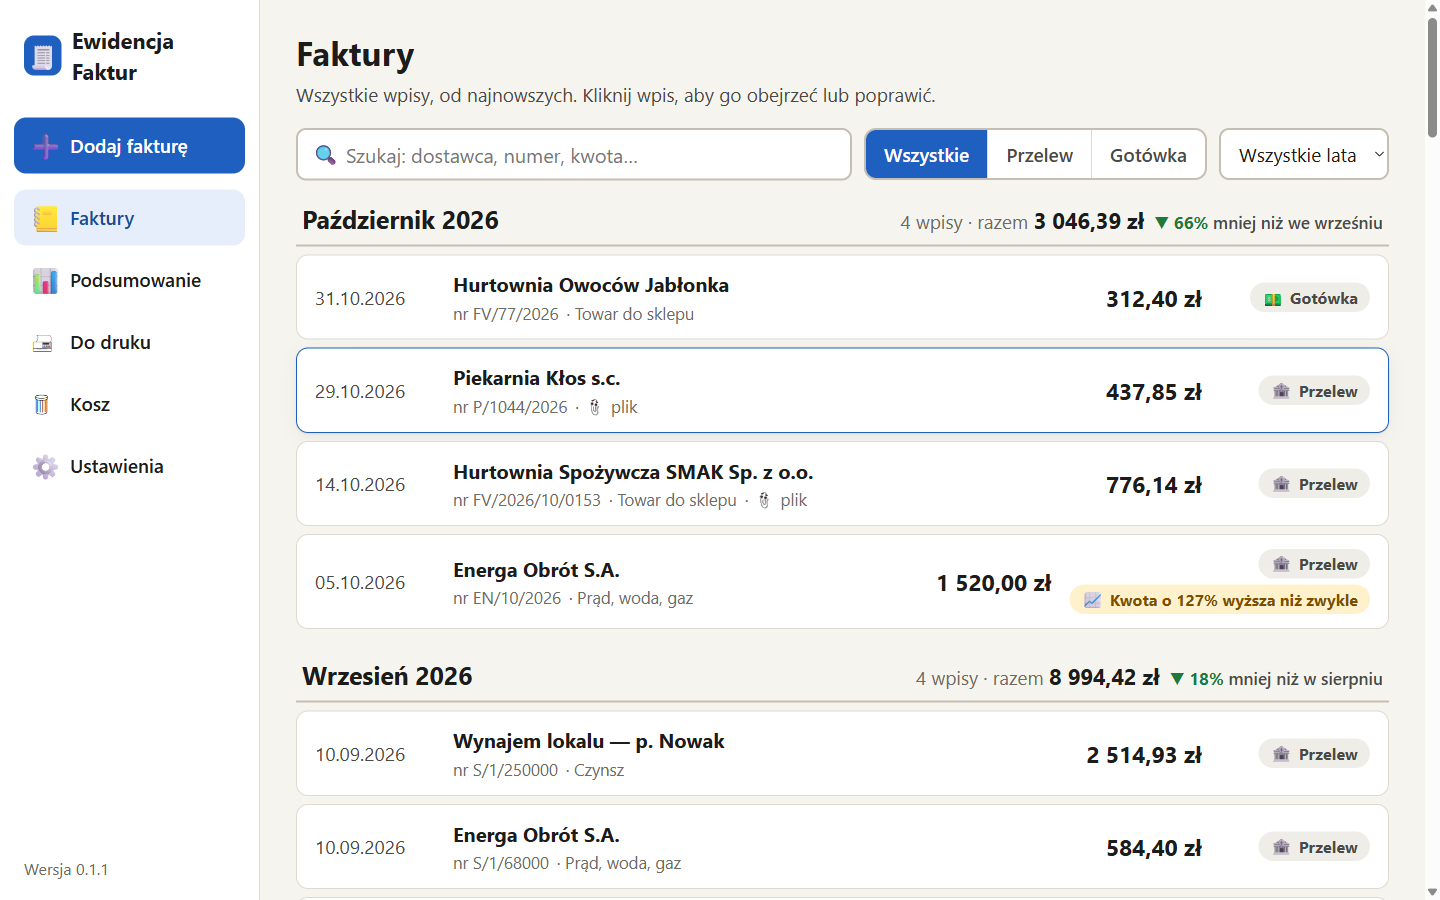
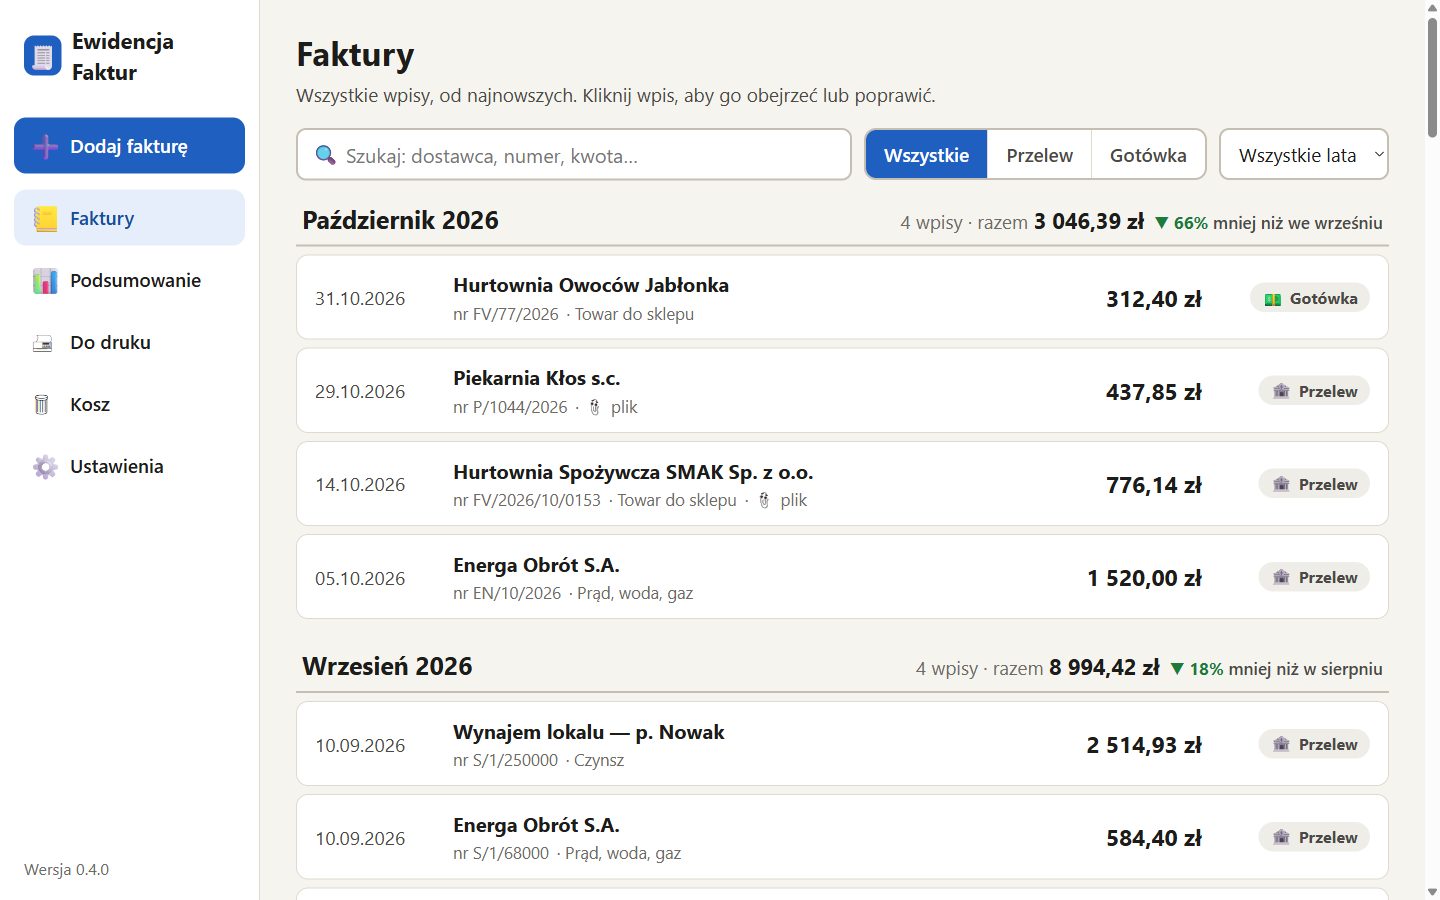
Release 0.4.1: remove the unusual-amount warning
The "amount …% higher than usual" note compared each invoice with the
median of the supplier's previous six. On the transcribed notebook data it
fired on every sixth invoice (375 of 2417), almost all ordinary larger
deliveries of goods, so it was noise rather than a signal. Duplicate
warnings stay.

diff --git a/src/shared/insights.ts b/src/shared/insights.ts
@@ -1,27 +1,12 @@
-/**
- * Warnings shown next to invoices: likely duplicates and amounts that are much higher
- * than what the same supplier usually charges.
- */
+/** Warnings shown next to invoices: likely duplicates. */
 
 import type { Invoice, InvoiceFlag } from './types'
-
-/** How many earlier invoices from the same supplier form the "typical" amount. */
-const HISTORY_SIZE = 6
-const MIN_HISTORY = 3
-/** An amount this many times above the typical one is highlighted. */
-const UNUSUAL_RATIO = 1.5
 
 export function normalizeInvoiceNumber(n: string): string {
   return n.toUpperCase().replace(/[\s\-_.]/g, '')
 }
 
-export function median(values: number[]): number {
-  const sorted = [...values].sort((a, b) => a - b)
-  const mid = Math.floor(sorted.length / 2)
-  return sorted.length % 2 ? sorted[mid] : Math.round((sorted[mid - 1] + sorted[mid]) / 2)
-}
-
-type FlagInput = Pick<Invoice, 'id' | 'supplierId' | 'number' | 'issueDate' | 'grossAmount'>
+type FlagInput = Pick<Invoice, 'id' | 'supplierId' | 'number'>
 
 export function computeFlags<T extends FlagInput>(invoices: T[]): Map<number, InvoiceFlag[]> {
   const flags = new Map<number, InvoiceFlag[]>()
@@ -37,24 +22,6 @@ export function computeFlags<T extends FlagInput>(invoices: T[]): Map<number, In
   for (const group of byKey.values()) {
     if (group.length < 2) continue
     for (const inv of group) add(inv.id, { type: 'duplicate', otherId: group.find((g) => g.id !== inv.id)!.id })
-  }
-
-  // Unusual amounts compared to the supplier's previous invoices
-  const bySupplier = new Map<number, T[]>()
-  for (const inv of invoices) {
-    if (inv.supplierId == null || inv.grossAmount == null || inv.grossAmount <= 0) continue
-    bySupplier.set(inv.supplierId, [...(bySupplier.get(inv.supplierId) ?? []), inv])
-  }
-  for (const list of bySupplier.values()) {
-    list.sort((a, b) => a.issueDate.localeCompare(b.issueDate) || a.id - b.id)
-    list.forEach((inv, i) => {
-      const history = list.slice(Math.max(0, i - HISTORY_SIZE), i).map((h) => h.grossAmount!)
-      if (history.length < MIN_HISTORY) return
-      const typical = median(history)
-      if (typical > 0 && inv.grossAmount! >= typical * UNUSUAL_RATIO) {
-        add(inv.id, { type: 'unusualAmount', percentAboveTypical: Math.round((inv.grossAmount! / typical - 1) * 100) })
-      }
-    })
   }
 
   return flags

diff --git a/tests/shared.test.ts b/tests/shared.test.ts
@@ -45,12 +45,10 @@ describe('computeFlags', () => {
     expect(flags.get(3)).toBeUndefined()
   })
 
-  it('flags amounts far above the supplier median', () => {
+  it('does not flag amounts, however much they vary', () => {
     const amounts = [10000, 11000, 9000, 10500, 20000]
     const invoices = amounts.map((a, i) => ({ ...base, id: i + 1, supplierId: 1, issueDate: `2026-0${i + 1}-10`, grossAmount: a }))
-    const flags = computeFlags(invoices)
-    expect(flags.get(5)).toEqual([{ type: 'unusualAmount', percentAboveTypical: 95 }])
-    expect(flags.get(4)).toBeUndefined()
+    expect(computeFlags(invoices).size).toBe(0)
   })
 })
 

diff --git a/src/shared/types.ts b/src/shared/types.ts
@@ -31,9 +31,7 @@ export interface Category {
 /** How the invoice was paid. Every entry is recorded after payment, so there is no "unpaid" state. */
 export type PaymentMethod = 'transfer' | 'cash'
 
-export type InvoiceFlag =
-  | { type: 'duplicate'; otherId: number }
-  | { type: 'unusualAmount'; percentAboveTypical: number }
+export type InvoiceFlag = { type: 'duplicate'; otherId: number }
 
 export interface Invoice {
   id: number

diff --git a/src/renderer/src/lib/flags.ts b/src/renderer/src/lib/flags.ts
@@ -8,7 +8,5 @@ export function flagLabel(flag: InvoiceFlag): { text: string; tone: Tone; icon: 
   switch (flag.type) {
     case 'duplicate':
       return { text: 'Możliwy duplikat', tone: 'warn', icon: '⧉' }
-    case 'unusualAmount':
-      return { text: `Kwota o ${flag.percentAboveTypical}% wyższa niż zwykle`, tone: 'warn', icon: '📈' }
   }
 }

diff --git a/README.md b/README.md
@@ -33,8 +33,7 @@ English.
   Every guessed field is highlighted so it gets checked before saving.
 - **The notebook view** — entries grouped by month with totals and month-over-month change,
   one search box, filter by payment method.
-- **Warnings** — likely duplicates (same supplier + number, or the same file twice) and amounts
-  far above what a supplier usually charges.
+- **Duplicate warnings** — same supplier and invoice number, or the same file added twice.
 - **Summary** — costs per month vs. the year before, transfer vs. cash, top suppliers, categories,
   and a per-supplier comparison with the previous month.
 - **Ready to print** — for the last 10 days, this month, last month, last quarter or this year:

diff --git a/docs/REQUIREMENTS.md b/docs/REQUIREMENTS.md
@@ -58,7 +58,7 @@
 | C4 | Breakdown by supplier and by category | ✅ 0.1 |
 | C5 | Per-supplier differences between two consecutive months | ✅ 0.1 |
 | C6 | Duplicate warning (same supplier + number, or the same file) while entering and in the ledger | ✅ 0.1 |
-| C7 | Unusual amount warning (≥ 1.5× the median of the supplier's last 6 invoices) | ✅ 0.1 |
+| C7 | ~~Unusual amount warning (≥ 1.5× the supplier's median)~~ | removed in 0.4.1 — on real data it flagged every sixth invoice, almost all ordinary larger deliveries |
 | C8 | ~~Overdue / due-in-3-days reminders~~ | removed in 0.2 — only paid invoices are recorded |
 | C9 | Transfer vs. cash totals for the chosen month | ✅ 0.2 |
 
